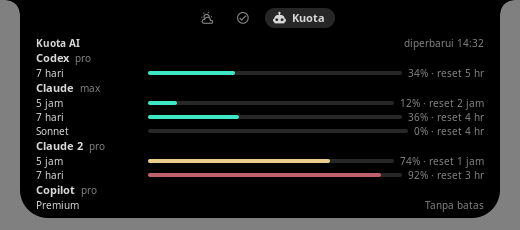
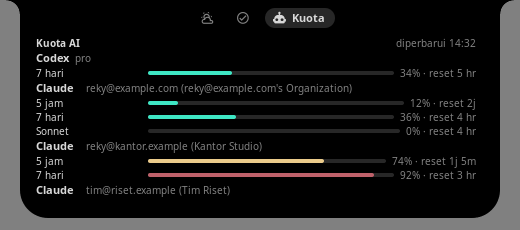
docs: describe the scrolling Kuota list and Claude identities

diff --git a/docs/fitur.md b/docs/fitur.md
@@ -252,16 +252,17 @@ Tab **Pintasan** berisi tombol ikon berlabel, tiga per baris, dibaca dari `eww/s
 
 ## Kuota
 
-Tab **Kuota** menampilkan pemakaian paket AI dari perintah lokal `omp usage --json --redact --no-extensions`. Judulnya `Kuota AI` dengan `diperbarui HH:MM` di kanan, lalu satu blok per akun dalam urutan laporan omp. Tiap blok berisi nama provider (`Codex`, `Claude`, `Copilot`, `Antigravity`; provider lain tampil dengan ID omp apa adanya), paket bila omp melaporkannya (misalnya `pro`), lalu satu baris per jendela batas. Beberapa akun dari provider yang sama tampil sebagai blok terpisah.
+Tab **Kuota** menampilkan pemakaian paket AI dari perintah lokal `omp usage --json --no-extensions`. Judulnya `Kuota AI` dengan `diperbarui HH:MM` di kanan, lalu satu blok per akun dalam urutan laporan omp. Tiap blok berisi nama provider (`Codex`, `Claude`, `Copilot`, `Antigravity`; provider lain tampil dengan ID omp apa adanya), paket bila omp melaporkannya (misalnya `pro`), lalu satu baris per jendela batas. Beberapa akun dari provider yang sama tampil sebagai blok terpisah.
 
+- Akun Claude menampilkan identitasnya dengan warna redup setelah nama provider: `email (nama organisasi)`, atau salah satunya saja bila omp hanya melaporkan satu. Identitas lebih dari 58 karakter dipotong dengan `…`; teks lengkapnya ada di tooltip. Provider lain tidak menampilkan identitas.
 - Tiap baris berisi label jendela (`5 jam`, `7 hari`, `Permintaan premium`; awalan `Claude ` dibuang, label lebih dari 18 karakter dipotong), bar pemakaian, lalu `N% · reset X` dengan persentase dibulatkan. Hitung mundur reset: `45m`, `1j 5m`, `5 hr` (hari), `segera` bila waktu reset sudah lewat, atau `—` bila omp tidak memberi waktu reset.
 - Bar berwarna aksen, kuning mulai 70%, dan merah mulai 90%.
 - Batas yang tidak dilaporkan omp dalam persen (kuota tak terbatas, atau satuan lain seperti jumlah permintaan) tampil sebagai `Tanpa batas`, tanpa bar.
-- Agar muat di kartu 508×218, paling banyak empat akun pertama tampil, dan penampilan berhenti sebelum akun yang membuat total baris batas melebihi tujuh; akun tidak pernah tampil sebagian. Akun yang tidak tampil dihitung sebagai `+N akun lain`.
+- Daftar akun bisa di-scroll dengan roda mouse atau touchpad; judul `Kuota AI` dan `diperbarui` tetap di atas. Scrollbar tipis GTK hanya muncul saat menggulir.
 - Provider yang ID omp-nya tercantum di `ISLAND_KUOTA_SKIP` (dipisah koma, bawaan `google-antigravity`) disembunyikan; nilai kosong menampilkan semua provider. Lihat [variabel lingkungan](konfigurasi.md#variabel-lingkungan).
 
 **Kesegaran data.** Kolektor `scripts/kuota` adalah listener kartu, jadi hanya berjalan selama listener kartu hidup. Saat dimulai ia menampilkan cache berhasil terakhir lebih dulu; bila cache itu masih segar, pengambilan berikutnya menunggu sisa interval, selain itu `omp usage` langsung dijalankan, lalu diulang setiap 300 detik (`ISLAND_KUOTA_INTERVAL`). Selama kartu tertutup tidak ada pengambilan. Tab mencantumkan `diperbarui HH:MM`, yaitu jam pengambilan terakhir yang berhasil; bila pengambilan berikutnya gagal, data terakhir tetap tampil dengan jam yang sama.
 
 **Ketersediaan.** Tab tersedia selama `$ISLAND_STATE/kuota.json` berisi hasil yang berhasil (`ok: true`). Berkas ini hanya ditulis saat `omp usage` berhasil dan berada di direktori runtime (`$XDG_RUNTIME_DIR/eww-island`), jadi tab baru muncul setelah satu pengambilan berhasil dalam sesi login. Tanpa `omp`, atau bila pengambilan pertama gagal, tab tetap tersembunyi dan variabel `kuota` membawa catatan `omp tidak ditemukan` atau `gagal memuat kuota` (periksa dengan `eww --config ~/.config/eww-island get kuota`).
 
-**Privasi.** Island tidak mengirim data ke mana pun. Ia hanya menjalankan `omp usage` dan membaca JSON-nya; omp sendiri yang menghubungi provider dengan login yang disimpannya. Island tidak pernah menjalankan perintah omp yang mengubah state (misalnya login atau logout).
+**Privasi.** Island tidak mengirim data ke mana pun. Ia hanya menjalankan `omp usage` dan membaca JSON-nya; omp sendiri yang menghubungi provider dengan login yang disimpannya. Island tidak pernah menjalankan perintah omp yang mengubah state (misalnya login atau logout). Keluaran omp dibaca tanpa `--redact` agar email dan organisasi Claude terbaca; dari identitas akun, hanya email dan nama organisasi Claude yang disimpan, di `$ISLAND_STATE/kuota.json` (mode 600).

diff --git a/docs/architecture.md b/docs/architecture.md
@@ -241,20 +241,21 @@ Partial baru: buat `eww/scss/_<area>.scss`, tambah `@import "scss/<area>";` di `
 
 ### 4.7 Kuota: kolektor `omp usage`
 
-`scripts/kuota` (deflisten `kuota`, `main` = `stream | emit_dedup`) menjalankan `omp usage --json --redact --no-extensions` saat mulai lalu setiap `ISLAND_KUOTA_INTERVAL` detik (bawaan 300; nilai bukan bilangan bulat positif memakai 300), dan menormalkannya dengan satu filter jq menjadi:
+`scripts/kuota` (deflisten `kuota`, `main` = `stream | emit_dedup`) menjalankan `omp usage --json --no-extensions` saat mulai lalu setiap `ISLAND_KUOTA_INTERVAL` detik (bawaan 300; nilai bukan bilangan bulat positif memakai 300), dan menormalkannya dengan satu filter jq menjadi:
 
 ```json
-{"ok":true,"updated":"HH:MM","note":"","accounts":[{"provider":"Codex","plan":"pro","limits":[{"label":"7 hari","used":34,"reset":"5 hr"}]}]}
+{"ok":true,"updated":"HH:MM","note":"","accounts":[{"provider":"Claude","plan":"","identity":"email (Org)","limits":[{"label":"5 jam","used":34,"reset":"2j"}]}]}
 ```
 
 - `accounts` mengikuti urutan `.reports[]` omp; report yang `provider`-nya ada di daftar koma `ISLAND_KUOTA_SKIP` (bawaan `google-antigravity`, kosong = tidak ada yang dilewati) dibuang. `provider` dipetakan `openai-codex`→`Codex`, `anthropic`→`Claude`, `github-copilot`→`Copilot`, `google-antigravity`→`Antigravity`, selain itu ID apa adanya; `plan` = `.metadata.planType // .metadata.plan // ""`.
+- `identity` hanya untuk `anthropic`: `.metadata.email` dan `.metadata.orgName` (nilai bukan string dianggap kosong) menjadi `email (org)`, atau yang tidak kosong saja; provider lain dan akun tanpa keduanya `""`. Karena itu omp dipanggil tanpa `--redact`, yang menyamarkan kedua field.
 - `label`: awalan `Claude ` dibuang, `Hour(s)`→`jam`, `Day(s)`→`hari`, `Premium Requests`→`Permintaan premium`. `used` = `.amount.used` bila `.amount.unit == "percent"` dan bertipe angka, selain itu `-1` (UI: `Tanpa batas`). `reset` dari `.window.resetsAt` (epoch milidetik) relatif terhadap waktu ambil: `Nm`, `Nj` / `Nj Mm`, `N hr`, `segera` bila sudah lewat, `—` bila null.
 - `updated` = jam pengambilan (`date +%H:%M`); `ISLAND_NOW` menimpa waktu sekarang untuk tes.
 - Berhasil: record ditulis atomik ke `$ISLAND_STATE/kuota.json` (`mktemp` + `mv`) lalu dicetak. Gagal setelah pernah berhasil: record terakhir dicetak ulang (`emit_dedup` membuang duplikatnya), cache tidak disentuh. Gagal sebelum pernah berhasil: `{"ok":false,"updated":"","note":"…","accounts":[]}` dengan `note` `omp tidak ditemukan` (tanpa `omp`) atau `gagal memuat kuota`.
 
 Registry `60-kuota.sh` sengaja memeriksa berkas cache, bukan `island_eww get kuota`: deflisten `kuota` hanya hidup selama kartu terbuka, sedangkan `scripts/tab` perlu jawaban ketersediaan saat kartu belum dibuka. Di kartu, `tab-chip` Kuota memakai `:available {kuota.ok}`. Tab baru yang datanya berasal dari listener kartu dapat memakai pola yang sama: listener menulis cache atomik hanya untuk hasil sah, dan predikat registry membaca cache itu dengan `jq -e`.
 
-Halaman `page-kuota` (`eww/yuck/tabs/kuota.yuck`, gaya `_kuota.scss`) memilih akun dengan `reduce` jq atas `.accounts[0:4]`: akun ditambahkan utuh selama total `limits` tidak melebihi 7, sisanya menjadi `+N akun lain`. `used >= 0` menampilkan bar (`kuota-ok`, `kuota-warn` mulai 70, `kuota-crit` mulai 90) dan `round`-nya; `used == -1` menampilkan `Tanpa batas` tanpa bar.
+Halaman `page-kuota` (`eww/yuck/tabs/kuota.yuck`, gaya `_kuota.scss`) menampilkan semua akun di dalam `scroll` vertikal yang mengisi sisa tinggi kartu; baris judul berada di luar `scroll`. Revealer status kosong hanya `vexpand` selama tampil, sebab revealer tersembunyi yang `vexpand` tetap mengambil separuh ruang sisa. `.kuota-top` dan `.kuota-list` diberi `padding-right: 8px` agar scrollbar overlay GTK tidak menutupi teks reset yang rata kanan. `identity` dibaca sebagai `a.identity ?: ""`, karena cache lama tanpa field itu akan tampil sebagai `null`. `used >= 0` menampilkan bar (`kuota-ok`, `kuota-warn` mulai 70, `kuota-crit` mulai 90) dan `round`-nya; `used == -1` menampilkan `Tanpa batas` tanpa bar.
 
 ## 5. Resep
 

diff --git a/README.md b/README.md
@@ -59,7 +59,7 @@ openbox-island sits at the top edge of monitor 0 like a notch: a 508×44 px comp
 - The expanded card has **Music**, **Kalender**, **Weather**, **Notifications**, **To-do**, **Shortcuts** and **Kuota** tabs. The tab header shows one icon per tab; the selected tab adds its name and an accent count badge (events left today, notifications, open to-dos). Each tab appears only while it has content; To-do is always available and supports optional deadlines — set in an in-card date picker (month calendar, time steppers and presets) — with reminders the day before and on the day.
 - Kalender lists iCal events — or Google Calendar API accounts (`google:<calendarId>`, see below) — from today through the next 30 days, with account colours, all-day summaries, Join buttons and meeting reminders.
 - Meeting prep templates turn recurring meetings into To-do items before each occurrence: a `Prep N/M` chip on the Kalender tab, `· Prep N/M` on the left pill, and a reminder body that names unfinished prep.
-- Kuota shows AI plan usage read from the local `omp usage` command (Codex, Claude, Copilot and the other providers omp reports): each account's limit windows with the percentage used and a reset countdown, refreshed every 5 minutes while the card is open. Providers listed in `ISLAND_KUOTA_SKIP` are hidden (default `google-antigravity`). The island only reads `omp usage`; without `omp` the tab stays hidden.
+- Kuota shows AI plan usage read from the local `omp usage` command (Codex, Claude, Copilot and the other providers omp reports): each account's limit windows with the percentage used and a reset countdown, refreshed every 5 minutes while the card is open. Claude accounts are labelled `email (organization)`, and the account list scrolls. Providers listed in `ISLAND_KUOTA_SKIP` are hidden (default `google-antigravity`). The island only reads `omp usage`; without `omp` the tab stays hidden.
 
 **Indicators**
 - Dots on the pill for screen recording (red, with elapsed time), microphone in use (yellow) and camera in use (green), plus a crossed-out bell while dunst Do Not Disturb is on.
@@ -146,7 +146,7 @@ All images below are rendered from sample states in `tools/samples/`.
   </tr>
   <tr><th colspan="2">Kuota</th></tr>
   <tr>
-    <td align="center"><img src="docs/assets/screenshots/card-kuota.png" alt="Kuota tab with AI plan usage per account" width="400"><br><sub>Usage bars and reset countdowns per account</sub></td>
+    <td align="center"><img src="docs/assets/screenshots/card-kuota.png" alt="Kuota tab with AI plan usage per account" width="400"><br><sub>Usage bars, reset countdowns and Claude account identities</sub></td>
     <td></td>
   </tr>
 </table>

diff --git a/docs/konfigurasi.md b/docs/konfigurasi.md
@@ -10,7 +10,7 @@ Visualizer memerlukan sesi audio PipeWire aktif dengan layanan kompatibilitas Pu
 
 Dependensi aktivitas: `pactl` (paket `libpulse`) untuk volume/mikrofon, scroll, dan mode Output di tab Musik; `inotify-tools` untuk pengamatan kamera dan folder tangkapan layar; `dbus` (`dbus-monitor`) untuk status Jangan Ganggu; `dunst` (`dunstctl`) dan `xdotool` untuk notifikasi; `light` untuk kecerahan; `upower` untuk baterai; NetworkManager (`nmcli`) untuk Wi-Fi; serta `curl` dan `jq` untuk cuaca dan data JSON. Opsional: ImageMagick untuk warna latar tab Musik dari cover, yaitu `magick` (ImageMagick 7, paket Arch `imagemagick`) atau `convert` (ImageMagick 6, misalnya di Ubuntu); tanpa keduanya tab Musik tetap tanpa warna; `geoclue` untuk lokasi otomatis sebelum fallback alamat IP; `gdbus` (paket `glib2`) dan `bluetoothctl` (paket `bluez-utils`) untuk alert Bluetooth; `tailscale` untuk alert Tailscale; `gtk-launch` (paket `gtk3`) untuk membuka aplikasi dari klik notifikasi saat window-nya belum ada.
 
-Opsional untuk tab Kuota: CLI `omp` yang sudah login ke provider AI. Island hanya menjalankan `omp usage --json --redact --no-extensions`; tanpa `omp` tab Kuota tersembunyi. Lihat [Fitur → Kuota](fitur.md#kuota).
+Opsional untuk tab Kuota: CLI `omp` yang sudah login ke provider AI. Island hanya menjalankan `omp usage --json --no-extensions`; tanpa `omp` tab Kuota tersembunyi. Lihat [Fitur → Kuota](fitur.md#kuota).
 
 ## Menjalankan dan menghentikan
 
